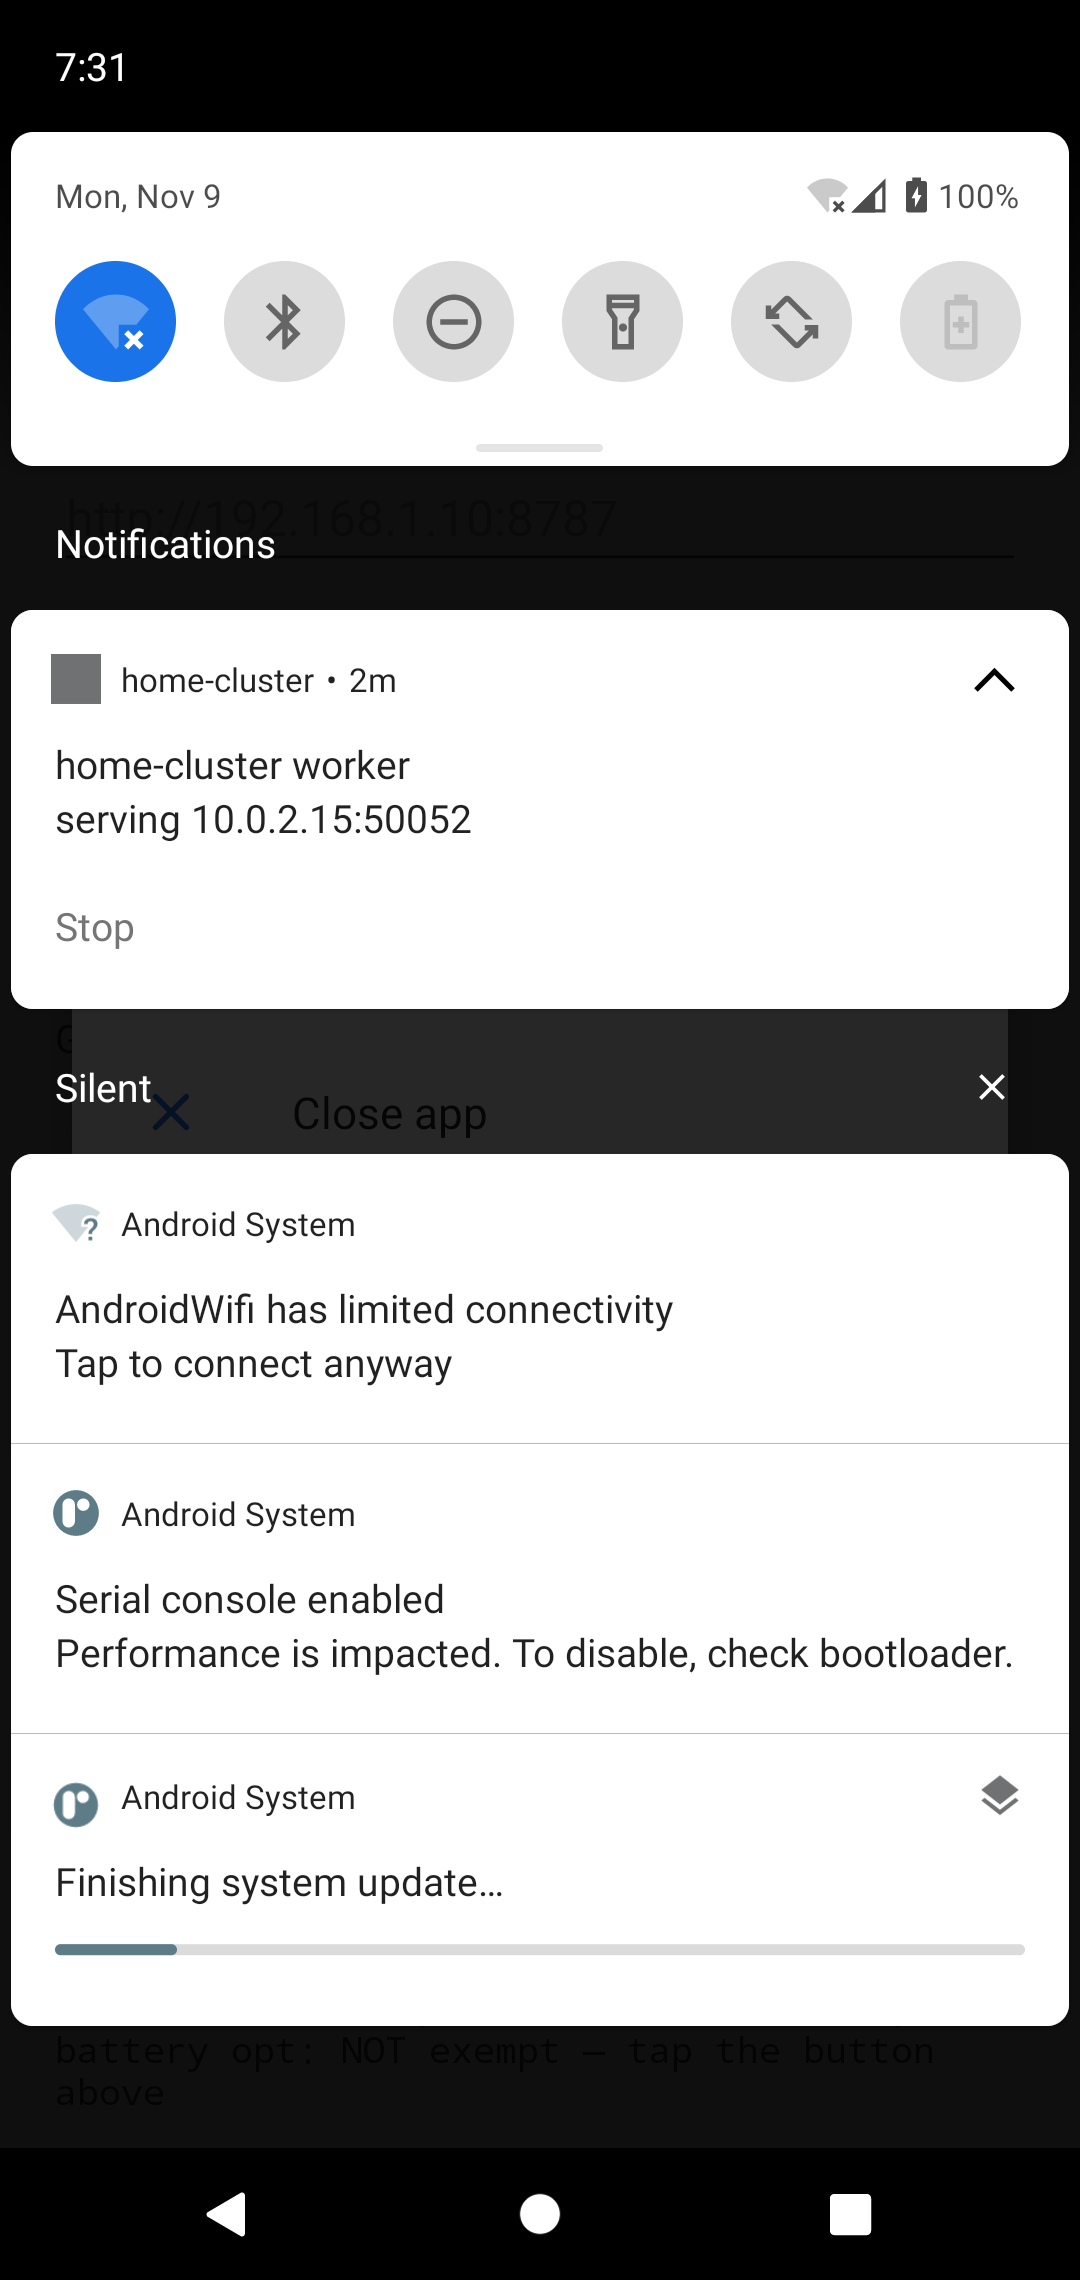
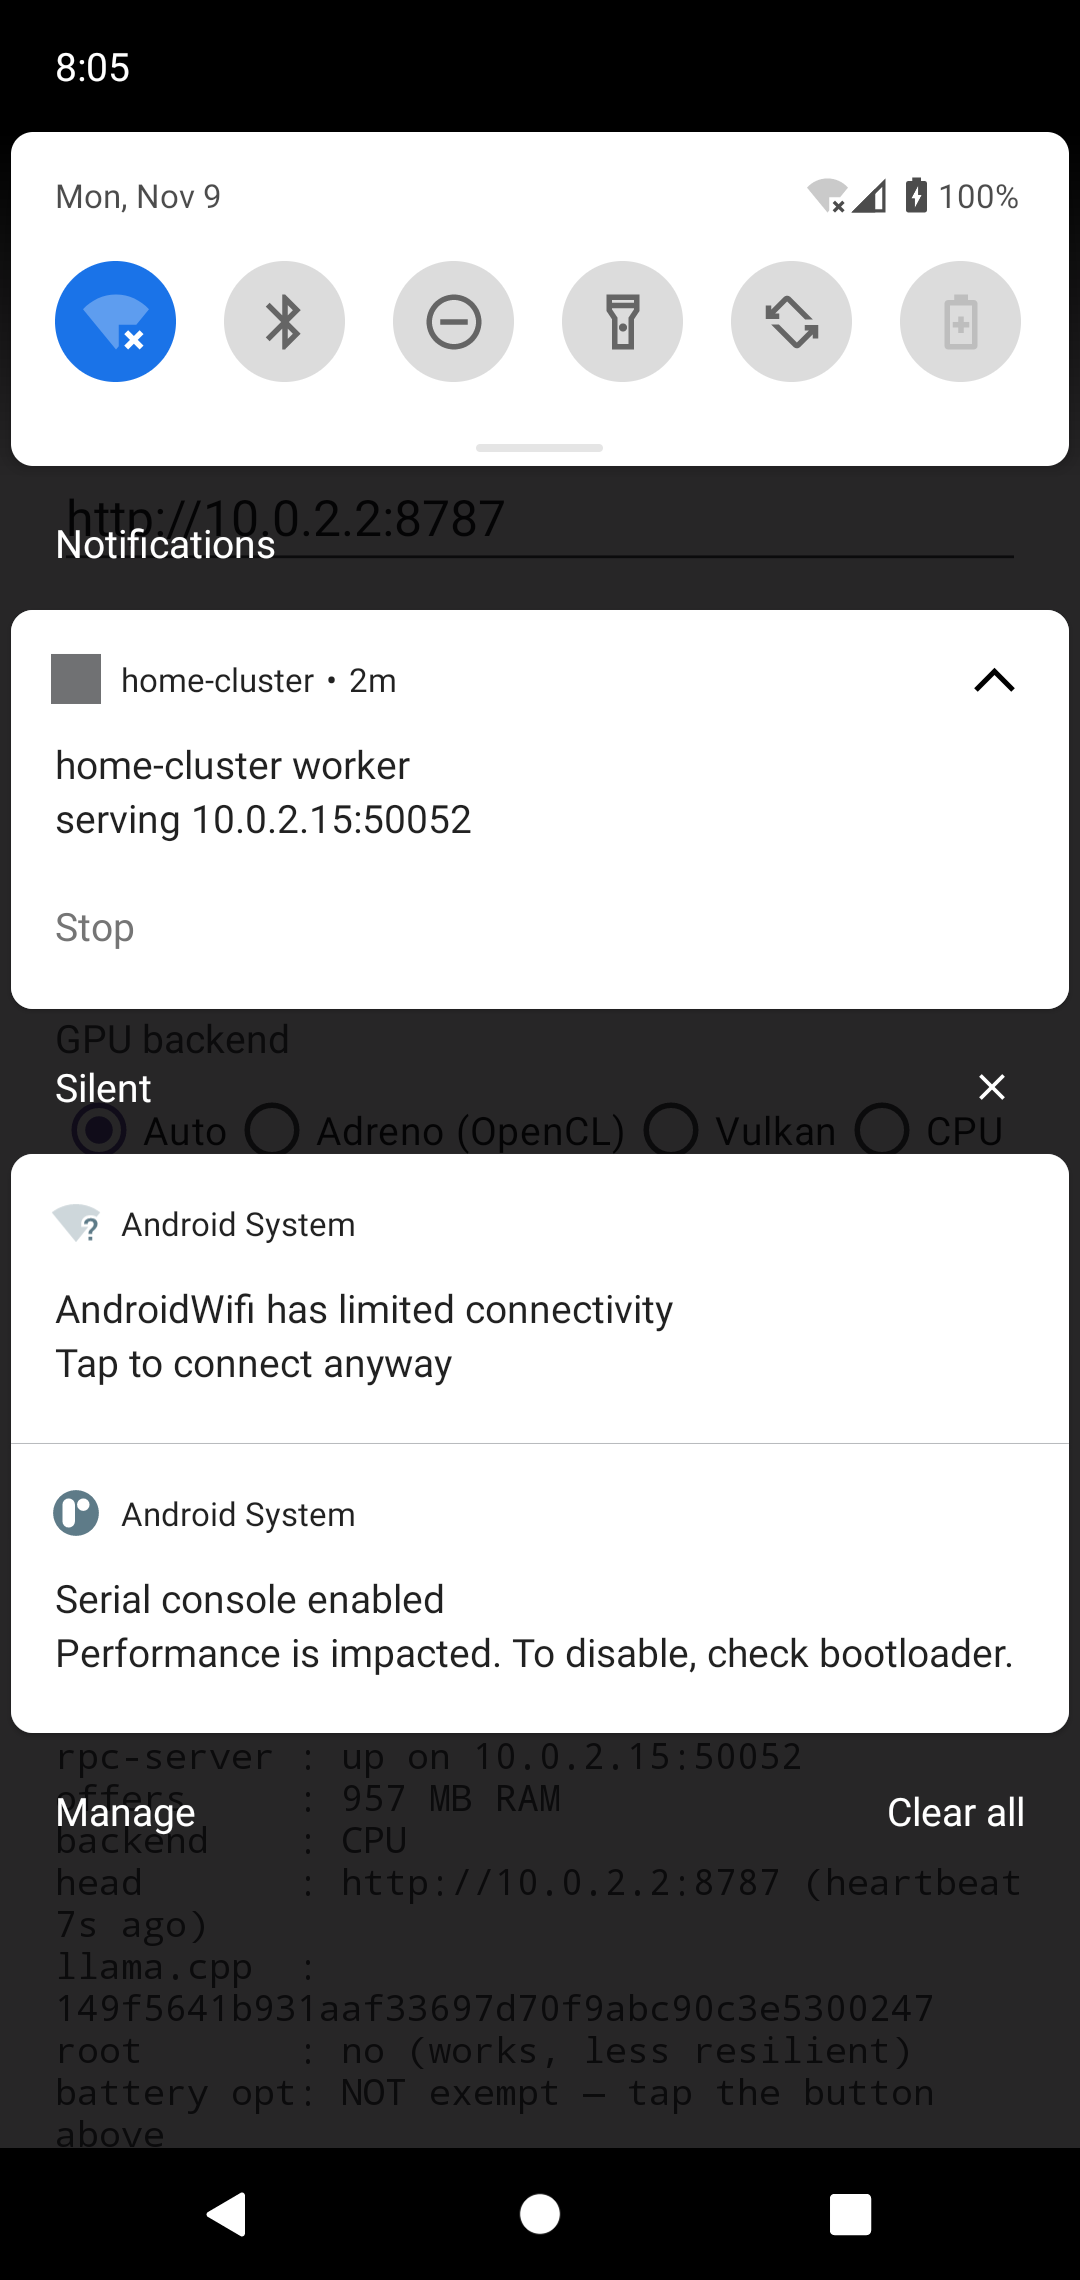
docs: clean emulator screenshots of the app and its dashboard card; emulator run verified end to end
Claude-Session: https://claude.ai/code/session_01VFJFXmquTNfp8PDPL7CFZA

diff --git a/README.md b/README.md
@@ -225,7 +225,13 @@ it was built from.
 
 | ![setup](docs/screenshots/app-setup.png) | ![running](docs/screenshots/app-running.png) | ![notification](docs/screenshots/app-notification.png) |
 |---|---|---|
-| setup screen | running: rpc-server up, backend, head, root state | the persistent notification with its Stop action |
+| setup: head URL, name, RAM to keep, GPU backend | running: rpc-server up, offered RAM, head heartbeat, llama.cpp commit, root state | the persistent notification with its Stop action |
+
+And the same emulator as the head's dashboard shows it, from the app's own
+heartbeats (RAM, offered memory, rpc state, battery, temperature, CPU,
+storage):
+
+<img src="docs/screenshots/dashboard-emulator-card.png" width="320" alt="emulator phone card on the dashboard">
 
 ## What is in the repo
 

diff --git a/CHECKLIST.md b/CHECKLIST.md
@@ -108,6 +108,7 @@ Tick these off in order. Each section is independent once the head is up.
 - [x] Android app (root and non-root) with rpc-server inside; APK built, not yet installed on a phone
 - [x] Android app: Adreno OpenCL build (second binary in the APK, auto-selected, CPU fallback)
 - [x] Android app: Vulkan build for Mali phones, auto-selected with fallback chain
+- [x] Android app run in an emulator: rpc-server up, heartbeats reach the head, dashboard shows the phone
 - [ ] Android app: measured on a Snapdragon phone, GPU vs CPU with `cluster bench`
 - [ ] Android app: measured on a Mali phone (Exynos/Tensor/MediaTek), Vulkan vs CPU
 - [ ] Tested worker.ps1 on the Windows laptop
